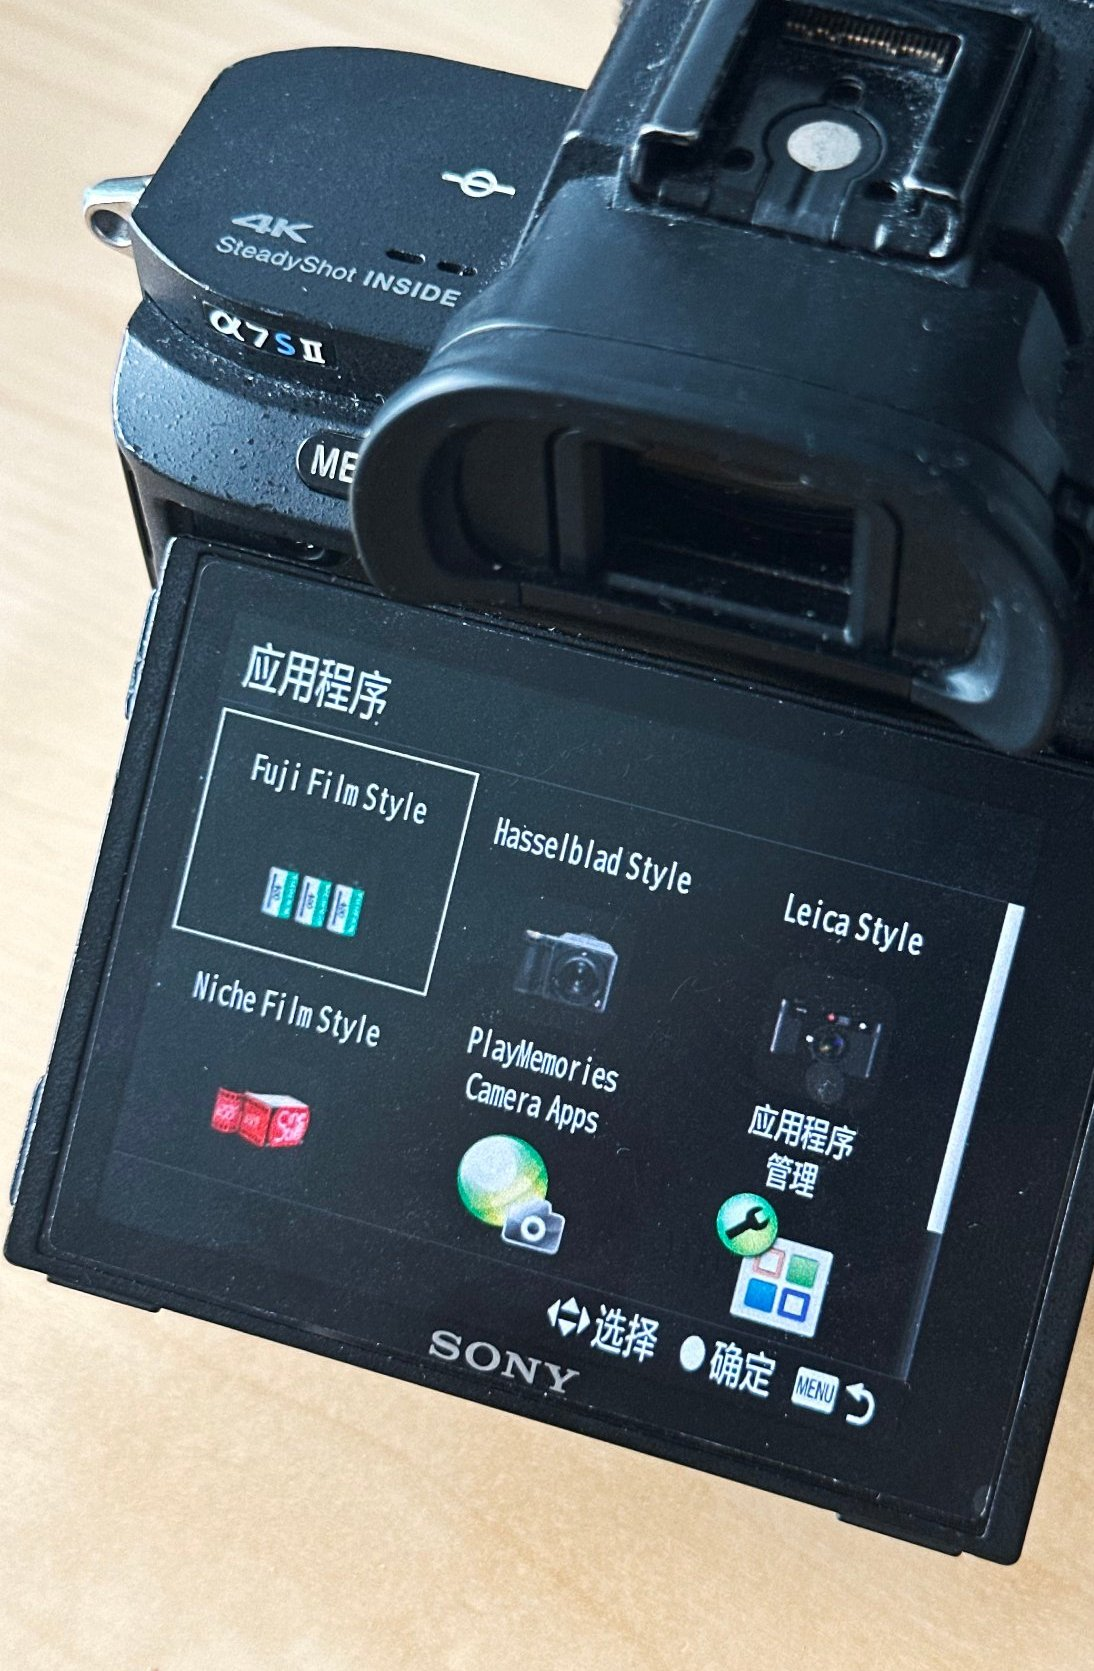
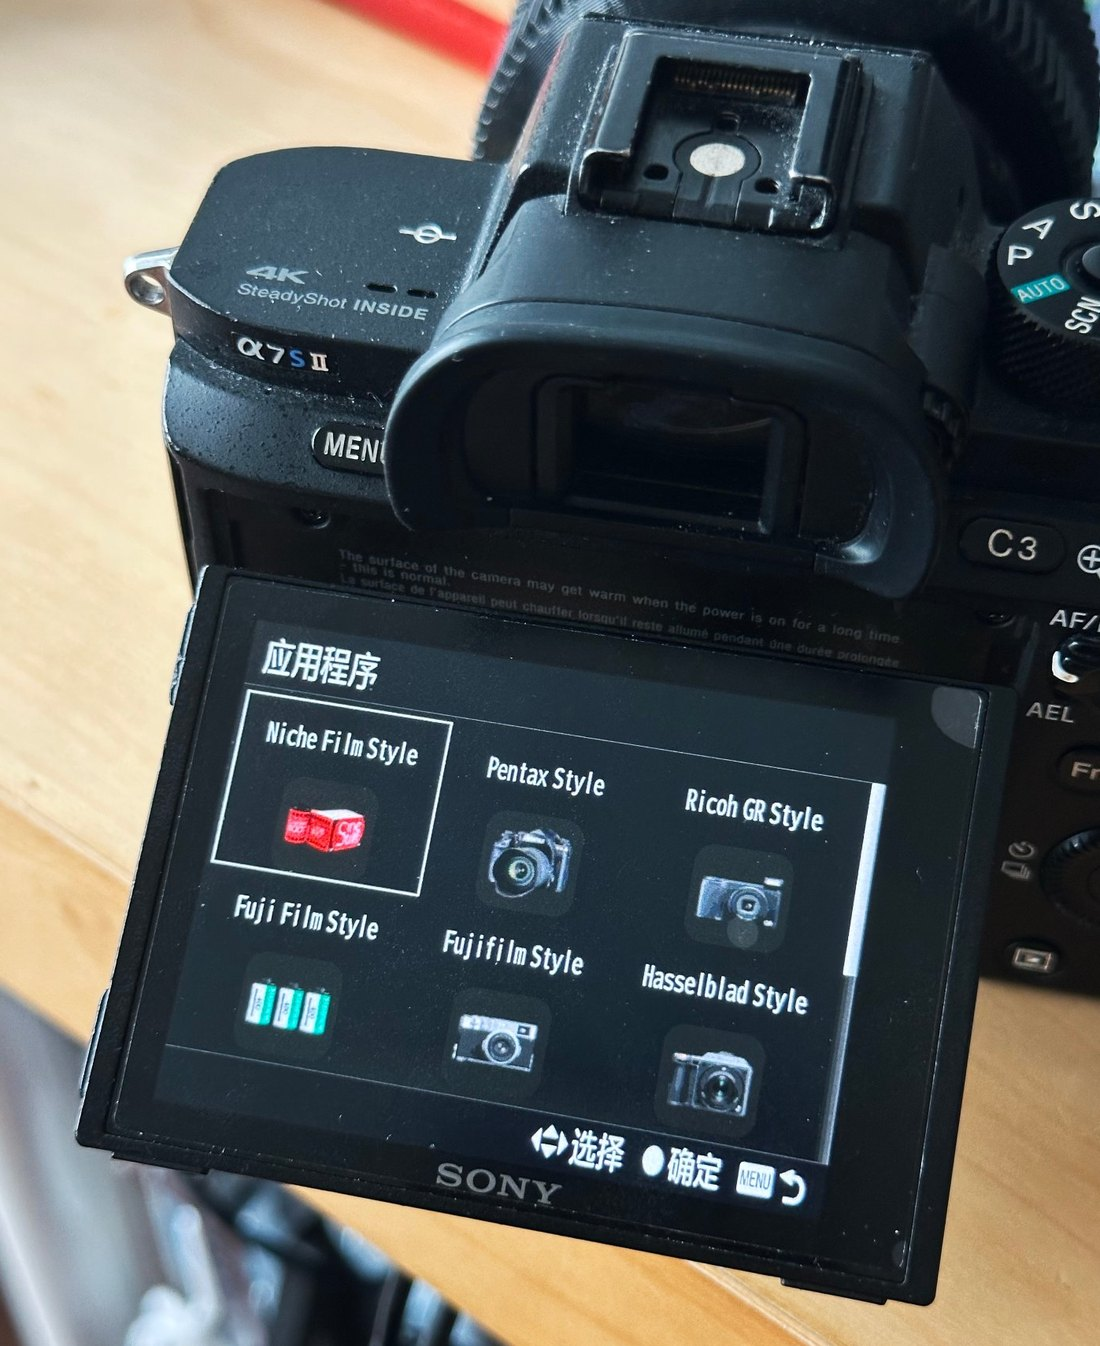
docs: swap old Leica shots for the five new real-camera photos
- Replace the four Leica stills with five current screenshots: the Application
  List (two frames), the main screen (Cinestill 50D Blue Velvet), and the FN
  browser in the CINE and RICOH GR groups.
- Delete the three retired Leica hardware photos.
- Carry the 'one brand pack per app, install only the one you shoot' point
  through the READMEs, INSTALL captions, and the assets convention doc.

Verified against catalog/filters.json: CINE·4, RECIPES·26 (nichefilm),
RECIPES·11 (ricoh-gr, 5 reference-only entries excluded).

diff --git a/README.md b/README.md
@@ -22,13 +22,15 @@
 </p>
 
 <p align="center">
-  <img src="docs/assets/hardware/02-a7sii-leica-silver-soft.jpg" width="420" alt="The recipes app on a Sony alpha 7S II with Leica Silver (soft) selected">
+  <img src="docs/assets/hardware/03-a7sii-main-screen-cinestill-50d.jpg" width="420" alt="The recipes app on a Sony alpha 7S II with Cinestill 50D (Blue Velvet) selected">
   <br><sub>Running on a real α7S II — not a render. Every number on that screen was read back off the body, and every one matches the catalog exactly.</sub>
 </p>
 
 Sony closed its PlayMemories Camera Apps store in 2021, and every body made before late 2016
 lost its app channel. Those bodies still run an Android userspace, which means they can still
-be given things. This project collects 155 film looks into one APK you install once. After
+be given things. This project collects 155 film looks into one APK you install once. If that is
+more than you want to scroll through on a 3-inch screen, **nine per-brand APKs ship the same
+code with only one brand's looks inside** — install Kodak Style and the list holds Kodak. After
 that the look is not an app running in the background — it is simply what the camera does.
 Close the app, power-cycle, and your JPEG comes out graded in **P, A, S, M and video**.
 
@@ -184,26 +186,45 @@ and how to reset the stored look, is in **[docs/INSTALL.md](docs/INSTALL.md)**.
 
 ## On a real camera
 
-Photographs of the maintainer's own body — not renders, not a mockup. All three are an
-**α7S II** with the frosted two-bar main screen running on it.
+Photographs of the maintainer's own body — not renders, not a mockup. All five are an
+**α7S II** with the frosted two-bar main screen and the FN browser running on it.
 
 <p align="center">
-  <img src="docs/assets/hardware/01-a7sii-application-list.jpg" width="300" alt="The camera's Application List, showing installed packs and the Application Management entry">
-  <img src="docs/assets/hardware/03-a7sii-leica-teal.jpg" width="300" alt="Leica Teal on the camera">
-  <img src="docs/assets/hardware/04-a7sii-leica-vivid.jpg" width="300" alt="Leica Vivid on the camera">
+  <img src="docs/assets/hardware/01-a7sii-application-list.jpg" width="300" alt="The camera's Application List, showing Niche Film Style, Pentax Style, Ricoh GR Style, Fuji Film Style, Fujifilm Style and Hasselblad Style installed">
+  <img src="docs/assets/hardware/02-a7sii-application-list-more.jpg" width="300" alt="The same Application List scrolled on: Fuji Film Style, Fujifilm Style, Hasselblad Style, Kodak Style, Leica Style and the PlayMemories Camera Apps entry">
+  <img src="docs/assets/hardware/03-a7sii-main-screen-cinestill-50d.jpg" width="300" alt="The main screen showing Cinestill 50D (Blue Velvet): standard style, saturation -1, contrast +1, 5600K white balance">
   <br><sub>
-  The <b>Application List</b> — the installed packs, and <b>Application Management</b>, the entry you
-  uninstall from. Then Leica Teal and Leica Vivid, recipes 19 and 20 of the 20 in the Leica pack.
+  The <b>Application List</b>, scrolled over two frames — one entry per pack, nine of them on
+  this body. Then the <b>main screen</b>, with the Niche Film Style pack's Cinestill 50D
+  (Blue Velvet) selected.
   </sub>
 </p>
 
-- **Packs coexist.** Four brand packs installed side by side on one α7S II. That is what the
-  different package names exist to make possible, seen rather than asserted.
-- **The screen matches the catalog.** Leica Teal reads `NEUTRAL · −1 · +1 · 0 · DRO Lv3` and
-  Leica Vivid `VIVID · +1 · 0 · 0 · DRO Lv4` — both exactly what `catalog/filters.json` holds.
-- **The badge says `PROTECTED`.** The camera's settings store was write-protected, so these
-  were being *previewed*, not stored; the fix is OpenMemories:Tweak with *Backup protection*
-  off. It stays in the crop because it is what the screen said.
+<p align="center">
+  <img src="docs/assets/hardware/04-a7sii-browser-cine.jpg" width="300" alt="The FN recipe browser reading RECIPES 26, in the CINE group, with Cinestill 50D (Blue Velvet) selected">
+  <img src="docs/assets/hardware/05-a7sii-browser-ricoh-gr.jpg" width="300" alt="The FN recipe browser reading RECIPES 11, in the RICOH GR group, with GR Positive Film selected">
+  <br><sub>
+  The <b>FN browser</b> — a screen of its own, opened with the <b>Fn</b> key. On the left, the
+  Niche Film Style pack: 26 looks, scrolled to its 4-look CINE group. On the right, the Ricoh GR
+  Style pack: 11 looks, all of them RICOH GR. Same app, same body, different pack.
+  </sub>
+</p>
+
+- **The counts on screen are the catalog's.** `CINE · 4` is the catalog's four `cine` recipes,
+  and `RECIPES · 26` is the Niche Film Style pack — ilford 5, cine 4, other-stocks 17. The Ricoh
+  screen says `RECIPES · 11` because the `ricoh-gr` group's sixteen entries include five that are
+  reference-only and compile into nothing; only the eleven that compile reach the camera. That
+  split is `catalog/filters.json`, not a rounding.
+- **The values on screen are the catalog's.** Cinestill 50D (Blue Velvet) reads
+  `Standard · −1/+1 · 5600K B2` — which is `sat −1, con +1, wb 5600K, ab −2` in the catalog. GR
+  Positive Film reads `Standard · +3/+2 · A2` against `sat 3, con 2, wb ab 2`.
+- **Packs coexist, and you only need one.** Nine brand packs installed side by side on one body.
+  That is what the different package names exist to make possible — seen rather than asserted.
+  It also means you never have to carry all of them: each pack holds one brand's looks, so the
+  browser on the camera stays as short as the brand you actually shoot.
+- **The badge says `PROTECTED`.** The camera's settings store was write-protected, so this was
+  being *previewed*, not stored; the fix is OpenMemories:Tweak with *Backup protection* off. It
+  stays in the crop because it is what the screen said.
 - **It does not make the looks verified.** That a *body* runs the app is one claim; a *look*
   being faithful to its film is another, recorded per recipe in `verified`.
 

diff --git a/docs/INSTALL.zh-CN.md b/docs/INSTALL.zh-CN.md
@@ -222,7 +222,7 @@ adb disconnect CAMERA_IP:5555
 <p align="center">
   <img src="assets/hardware/01-a7sii-application-list.jpg" width="330" alt="α7S II 上的应用程序列表，「应用程序管理」就在列表里">
   <br><sub>α7S II 上就是这个样子：<b>应用程序管理</b>是应用程序列表<b>里面</b>的一项，
-  这台机器上不需要再进别的子菜单。要卸载就进这一项。真机屏幕照片，不是效果图。</sub>
+  这台机器上不需要再进别的子菜单。要卸载就进这一项。真机屏幕照片，不是效果图。 一台机身上并排放着九个品牌包——这正是「包名各不相同」要换来的并存，也意味着你不必背着全部九个。</sub>
 </p>
 
 > **实话实说 —— 装它的工具卸不掉它。** Sony-PMCA-RE **没有卸载命令**。它的全部子命令是

diff --git a/docs/INSTALL.md b/docs/INSTALL.md
@@ -256,7 +256,7 @@ the daemon on the camera keeps running until you disable it in Tweak.
   <img src="assets/hardware/01-a7sii-application-list.jpg" width="330" alt="The Application List on an A7S II, with Application Management as an entry in the list">
   <br><sub>What it looks like on an α7S II: <b>Application Management</b> (应用程序管理) is an
   entry <i>in</i> the Application List, not behind another submenu on this body. That is the one
-  to open. A photograph of the real screen, not a mockup.</sub>
+  to open. A photograph of the real screen, not a mockup. Nine packs installed side by side on one body — that is what the different package names buy you, and why you never have to carry all of them.</sub>
 </p>
 
 > **Honest note — the tool that installed it cannot remove it.** Sony-PMCA-RE has **no uninstall

diff --git a/docs/assets/README.md b/docs/assets/README.md
@@ -73,7 +73,7 @@ dialogue is 200 px wide is not a usable screenshot.
 hardware/<NN>-<body>-<slug>.jpg
 ```
 
-`01-a7sii-application-list.jpg`, `02-a7sii-leica-silver-soft.jpg`, … Numbered for reading
+`01-a7sii-application-list.jpg`, `02-a7sii-application-list-more.jpg`, … Numbered for reading
 order, with the **body in the name**, because the body is the point of the file: it is the
 evidence that a *named* camera runs this app. A photo that does not say which body it is
 proves only that some camera somewhere did.
